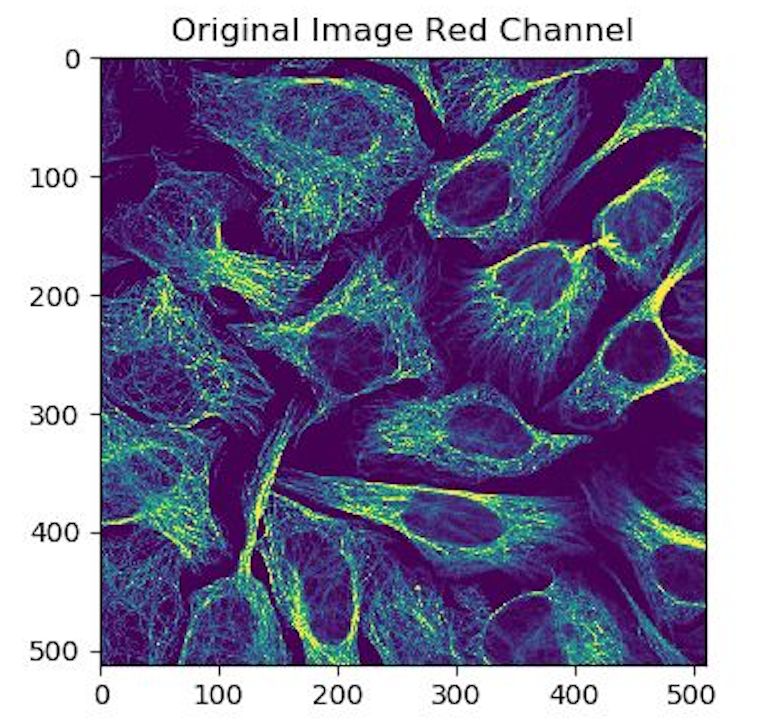
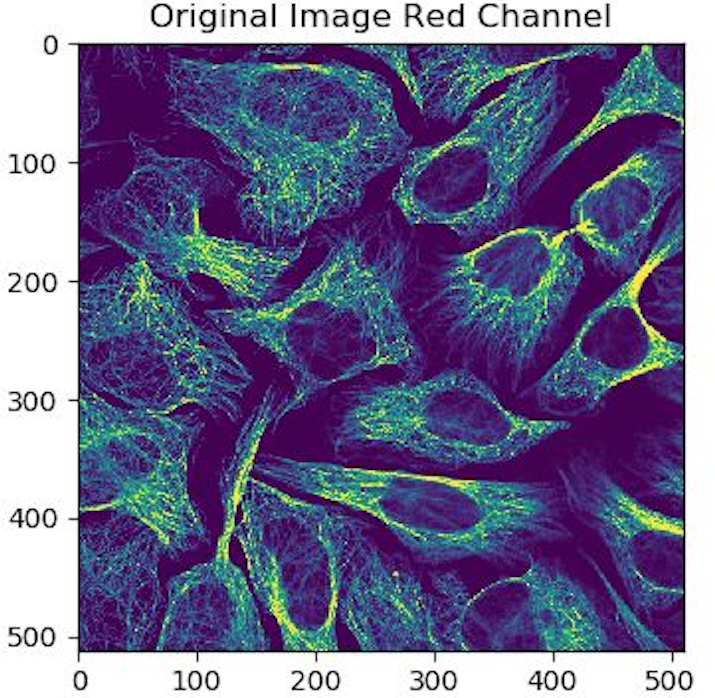
update readme header

diff --git a/README.md b/README.md
@@ -1,6 +1,6 @@
 Human Protein Atlas Image Classification
 ===========
-<img src="assets/figures/readme_header_left.png" alt="original" > <img src="assets/figures/readme_header_right.png" alt="reconstructed">
+<img src="assets/figures/readme_header_left.png" alt="original" height="250px" width="250px"> <img src="assets/figures/readme_header_right.png" alt="reconstructed" height="250px" width="250px">
 
 Orininal protein image (left) vs Auto-encoder reconstructed protein image (right) 
 
